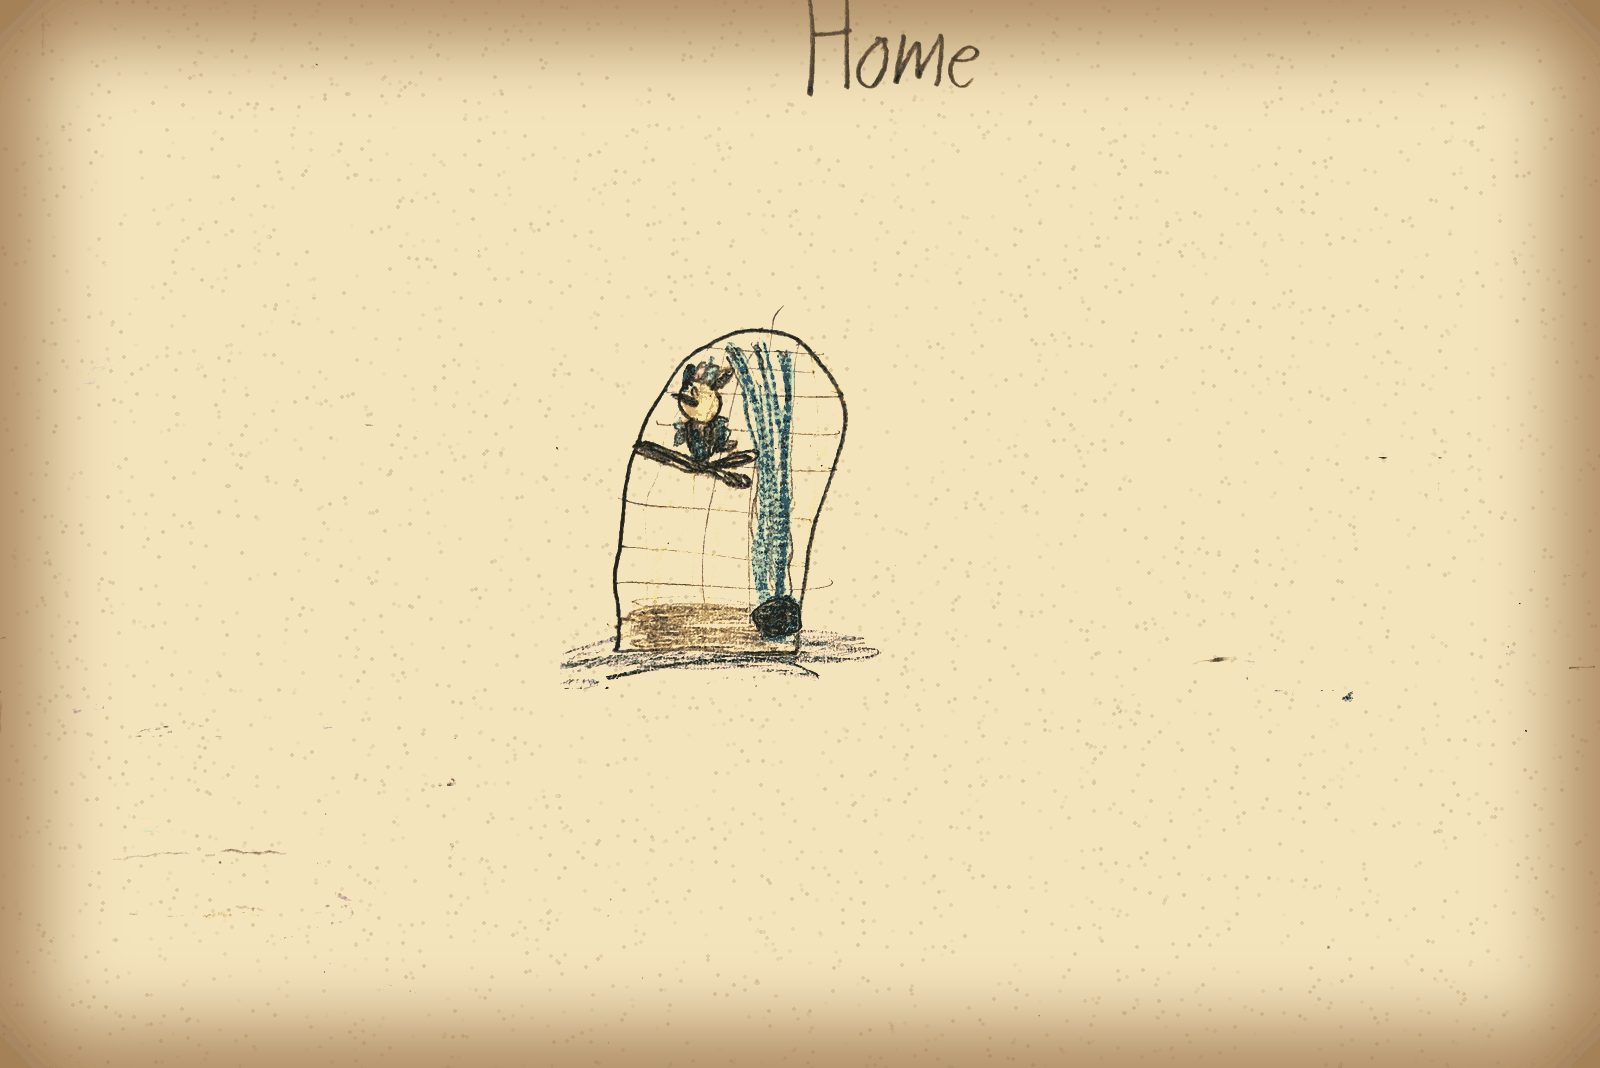
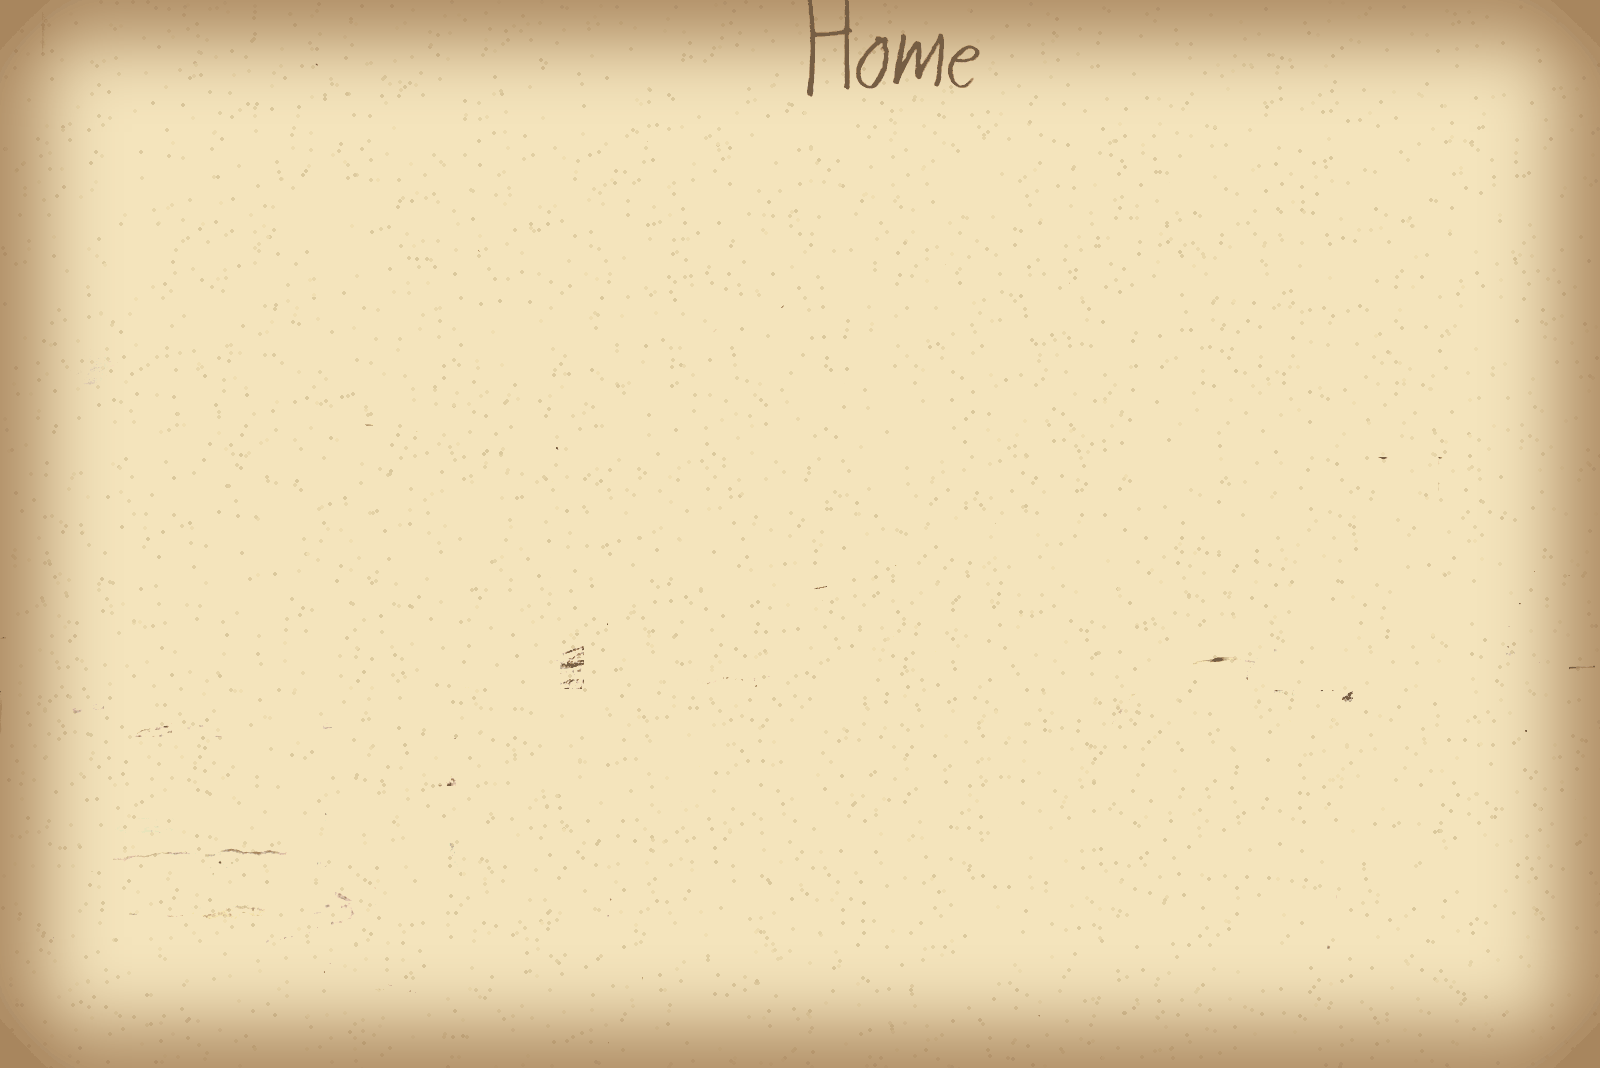
Movable bird cage, Switch Game button, named brooms priced in gems
Claude-Session: https://claude.ai/code/session_01BBNJnnKDsoYXa5MRnbbGYn

Changed region(s): [[0.3438, 0.309, 0.5625, 0.6489], [0.5312, 0.0618, 0.5625, 0.0927]]

diff --git a/data/items.js b/data/items.js
@@ -10,23 +10,23 @@
 //   inPicture   true when the item is already drawn in its shop's picture: only
 //               its price tag shows there, at shelfX/shelfY (percent)
 GAME_DATA.items = [
-  {"id": "broom_wave", "name": "Wave", "category": "Broomstick", "price": 30, "emoji": "🧹", "description": "The Wave broomstick."},
-  {"id": "broom_no1", "name": "Broom No. 1", "category": "Broomstick", "price": 30, "emoji": "🧹", "description": "A broomstick drawn by the girls."},
-  {"id": "broom_no2", "name": "Broom No. 2", "category": "Broomstick", "price": 30, "emoji": "🧹", "description": "A broomstick drawn by the girls."},
-  {"id": "broom_stinger", "name": "Stinger", "category": "Broomstick", "price": 30, "emoji": "🧹", "description": "The Stinger broomstick."},
-  {"id": "broom_firefly", "name": "Firefly", "category": "Broomstick", "price": 30, "emoji": "🧹", "description": "The Firefly broomstick."},
-  {"id": "broom_bolt", "name": "Bolt", "category": "Broomstick", "price": 30, "emoji": "🧹", "description": "The Bolt broomstick."},
-  {"id": "broom_rocketer", "name": "Rocketer", "category": "Broomstick", "price": 30, "emoji": "🧹", "description": "The Rocketer broomstick."},
-  {"id": "broom_no3", "name": "Broom No. 3", "category": "Broomstick", "price": 30, "emoji": "🧹", "description": "A broomstick drawn by the girls."},
-  {"id": "broom_no4", "name": "Broom No. 4", "category": "Broomstick", "price": 30, "emoji": "🧹", "description": "A broomstick drawn by the girls."},
-  {"id": "broom_no5", "name": "Broom No. 5", "category": "Broomstick", "price": 30, "emoji": "🧹", "description": "A broomstick drawn by the girls."},
-  {"id": "broom_no6", "name": "Broom No. 6", "category": "Broomstick", "price": 30, "emoji": "🧹", "description": "A broomstick drawn by the girls."},
-  {"id": "broom_no7", "name": "Broom No. 7", "category": "Broomstick", "price": 30, "emoji": "🧹", "description": "A broomstick drawn by the girls."},
-  {"id": "broom_no8", "name": "Broom No. 8", "category": "Broomstick", "price": 30, "emoji": "🧹", "description": "A broomstick drawn by the girls."},
-  {"id": "broom_snowflake", "name": "Snowflake", "category": "Broomstick", "price": 30, "emoji": "🧹", "description": "A frosty light-blue broom."},
-  {"id": "broom_no9", "name": "Broom No. 9", "category": "Broomstick", "price": 30, "emoji": "🧹", "description": "A broomstick drawn by the girls."},
-  {"id": "broom_no10", "name": "Broom No. 10", "category": "Broomstick", "price": 30, "emoji": "🧹", "description": "A broomstick drawn by the girls."},
-  {"id": "broom_no11", "name": "Broom No. 11", "category": "Broomstick", "price": 30, "emoji": "🧹", "description": "A broomstick drawn by the girls."},
+  {"id": "broom_wave", "name": "Wave", "category": "Broomstick", "gems": 5, "emoji": "🧹", "description": "The Wave broomstick."},
+  {"id": "broom_no1", "name": "Iridescent", "category": "Broomstick", "gems": 5, "emoji": "🧹", "description": "The Iridescent broomstick."},
+  {"id": "broom_no2", "name": "Sunset", "category": "Broomstick", "gems": 5, "emoji": "🧹", "description": "The Sunset broomstick."},
+  {"id": "broom_stinger", "name": "Stinger", "category": "Broomstick", "gems": 5, "emoji": "🧹", "description": "The Stinger broomstick."},
+  {"id": "broom_firefly", "name": "Firefly", "category": "Broomstick", "gems": 5, "emoji": "🧹", "description": "The Firefly broomstick."},
+  {"id": "broom_bolt", "name": "Bolt", "category": "Broomstick", "gems": 5, "emoji": "🧹", "description": "The Bolt broomstick."},
+  {"id": "broom_rocketer", "name": "Rocketer", "category": "Broomstick", "gems": 5, "emoji": "🧹", "description": "The Rocketer broomstick."},
+  {"id": "broom_no3", "name": "Tangerine", "category": "Broomstick", "gems": 5, "emoji": "🧹", "description": "The Tangerine broomstick."},
+  {"id": "broom_no4", "name": "Icy", "category": "Broomstick", "gems": 5, "emoji": "🧹", "description": "The Icy broomstick."},
+  {"id": "broom_no5", "name": "Bubble", "category": "Broomstick", "gems": 5, "emoji": "🧹", "description": "The Bubble broomstick."},
+  {"id": "broom_no6", "name": "Emerald", "category": "Broomstick", "gems": 5, "emoji": "🧹", "description": "The Emerald broomstick."},
+  {"id": "broom_no7", "name": "Nature", "category": "Broomstick", "gems": 5, "emoji": "🧹", "description": "The Nature broomstick."},
+  {"id": "broom_no8", "name": "Moon", "category": "Broomstick", "gems": 5, "emoji": "🧹", "description": "The Moon broomstick."},
+  {"id": "broom_snowflake", "name": "Snowflake", "category": "Broomstick", "gems": 5, "emoji": "🧹", "description": "A frosty light-blue broom."},
+  {"id": "broom_no9", "name": "Comet", "category": "Broomstick", "gems": 5, "emoji": "🧹", "description": "The Comet broomstick."},
+  {"id": "broom_no10", "name": "Saturn", "category": "Broomstick", "gems": 5, "emoji": "🧹", "description": "The Saturn broomstick."},
+  {"id": "broom_no11", "name": "Play-doh", "category": "Broomstick", "gems": 5, "emoji": "🧹", "description": "The Play-doh broomstick."},
   {"id": "pet_turtle", "name": "Healing Turtle", "category": "Pet", "gems": 3, "emoji": "🐢", "description": "A gentle turtle whose shell glows when someone needs healing."},
   {"id": "pet_owl", "name": "Snowy Owl", "category": "Pet", "gems": 17, "emoji": "🦉", "description": "A fluffy white owl with big round eyes."},
   {"id": "pet_cat", "name": "Midnight Cat", "category": "Pet", "gems": 15, "emoji": "🐈", "description": "A soft brown cat who loves the night."},

diff --git a/index.html b/index.html
@@ -6,7 +6,7 @@
   <title>Witches and Wizards</title>
   <link rel="preconnect" href="https://fonts.googleapis.com">
   <link href="https://fonts.googleapis.com/css2?family=Grandstander:wght@400;700&display=swap" rel="stylesheet">
-  <link rel="stylesheet" href="css/style.css?v=12">
+  <link rel="stylesheet" href="css/style.css?v=14">
 </head>
 <body>
 
@@ -72,10 +72,11 @@
     <span class="status-item"><b id="status-level"></b></span>
     <span class="status-item" title="Adventure Points">Adventure <span id="status-points" class="stars"></span></span>
     <span class="status-item" title="Crystals">💎 <b id="status-crystals"></b></span>
-    <span class="status-item" title="Gems"><img class="gem-icon" src="art/processed/extra_gem.png?v=12" alt="Gems"> <b id="status-gems"></b></span>
+    <span class="status-item" title="Gems"><img class="gem-icon" src="art/processed/extra_gem.png?v=14" alt="Gems"> <b id="status-gems"></b></span>
     <button id="btn-backpack" class="small-button">🎒 Backpack</button>
     <button id="btn-cooler" class="small-button">🧊 Cooler</button>
     <button id="btn-bucket" class="small-button">🪣 Bucket</button>
+    <button id="btn-switch-game" class="small-button" title="Save this game and go back to the title screen">💾 Switch Game</button>
   </header>
 
   <!-- Pop-up: one item from a shelf (take it free, or buy it) -->
@@ -188,25 +189,25 @@
   <p id="placement-info" class="placement-info" hidden></p>
 
   <!-- Game content. Every data file adds to GAME_DATA. -->
-  <script>var GAME_DATA = {}; var GAME_VERSION = "12"; // tools/bump_version.py changes this and every ?v= so browsers load fresh files</script>
-  <script src="data/characters.js?v=12"></script>
-  <script src="data/places.js?v=12"></script>
-  <script src="data/paths.js?v=12"></script>
-  <script src="data/items.js?v=12"></script>
-  <script src="data/fish.js?v=12"></script>
-  <script src="data/digging.js?v=12"></script>
-  <script src="data/furniture.js?v=12"></script>
-  <script src="data/furniture_art.js?v=12"></script>
-  <script src="data/drawn.js?v=12"></script>
+  <script>var GAME_DATA = {}; var GAME_VERSION = "14"; // tools/bump_version.py changes this and every ?v= so browsers load fresh files</script>
+  <script src="data/characters.js?v=14"></script>
+  <script src="data/places.js?v=14"></script>
+  <script src="data/paths.js?v=14"></script>
+  <script src="data/items.js?v=14"></script>
+  <script src="data/fish.js?v=14"></script>
+  <script src="data/digging.js?v=14"></script>
+  <script src="data/furniture.js?v=14"></script>
+  <script src="data/furniture_art.js?v=14"></script>
+  <script src="data/drawn.js?v=14"></script>
 
   <!-- Game code -->
-  <script src="js/save.js?v=12"></script>
-  <script src="js/world.js?v=12"></script>
-  <script src="js/items.js?v=12"></script>
-  <script src="js/fishing.js?v=12"></script>
-  <script src="js/digging.js?v=12"></script>
-  <script src="js/storage.js?v=12"></script>
-  <script src="js/furniture.js?v=12"></script>
-  <script src="js/game.js?v=12"></script>
+  <script src="js/save.js?v=14"></script>
+  <script src="js/world.js?v=14"></script>
+  <script src="js/items.js?v=14"></script>
+  <script src="js/fishing.js?v=14"></script>
+  <script src="js/digging.js?v=14"></script>
+  <script src="js/storage.js?v=14"></script>
+  <script src="js/furniture.js?v=14"></script>
+  <script src="js/game.js?v=14"></script>
 </body>
 </html>

diff --git a/data/furniture_art.js b/data/furniture_art.js
@@ -1,3 +1,3 @@
 // Made by tools/process_art.py: where each cut-out piece of furniture sits
 // in its room's drawing, as [left, top, right, bottom] percentages.
-GAME_DATA.furnitureBoxes = {"cabin/table": [7.7, 66.5, 22.0, 76.1], "cabin/stool": [22.4, 70.7, 28.8, 77.6], "cabin/sofa": [38.0, 57.2, 65.1, 75.0], "cabin/bookshelf": [84.0, 57.6, 100.0, 74.0], "home/pet_cage": [3.1, 39.0, 35.0, 70.0], "home/chest": [78.0, 45.9, 100.0, 64.6], "home/armchair": [64.5, 62.3, 83.4, 94.0], "home/cooler": [2.6, 75.3, 19.8, 90.0], "home/spellbook_table": [19.6, 73.6, 40.8, 92.8], "rec_room/snack_table": [8.0, 13.0, 36.0, 40.0], "rec_room/armchair": [67.7, 26.4, 91.0, 51.0], "rec_room/bookshelf": [80.1, 51.0, 97.0, 85.4], "rec_room/egg_chair": [58.2, 72.5, 69.0, 86.4]};
+GAME_DATA.furnitureBoxes = {"cabin/table": [7.7, 66.5, 22.0, 76.1], "cabin/stool": [22.4, 70.7, 28.8, 77.6], "cabin/sofa": [38.0, 57.2, 65.1, 75.0], "cabin/bookshelf": [84.0, 57.6, 100.0, 74.0], "home/bird_cage": [36.5, 29.2, 54.9, 65.0], "home/pet_cage": [3.1, 39.0, 35.0, 70.0], "home/chest": [78.0, 45.9, 100.0, 64.6], "home/armchair": [64.5, 62.3, 83.4, 94.0], "home/cooler": [2.6, 75.3, 19.8, 90.0], "home/spellbook_table": [19.6, 73.6, 40.8, 92.8], "rec_room/snack_table": [8.0, 13.0, 36.0, 40.0], "rec_room/armchair": [67.7, 26.4, 91.0, 51.0], "rec_room/bookshelf": [80.1, 51.0, 97.0, 85.4], "rec_room/egg_chair": [58.2, 72.5, 69.0, 86.4]};

diff --git a/catalog.html b/catalog.html
@@ -176,16 +176,16 @@
     </div>
   </main>
 
-  <script>var GAME_DATA = {}; var GAME_VERSION = "12"; // tools/bump_version.py changes this and every ?v= so browsers load fresh files</script>
-  <script src="data/characters.js?v=12"></script>
-  <script src="data/places.js?v=12"></script>
-  <script src="data/items.js?v=12"></script>
-  <script src="data/ideas.js?v=12"></script>
-  <script src="data/fish.js?v=12"></script>
-  <script src="data/digging.js?v=12"></script>
-  <script src="data/gameplay.js?v=12"></script>
-  <script src="data/extras.js?v=12"></script>
-  <script src="data/drawn.js?v=12"></script>
+  <script>var GAME_DATA = {}; var GAME_VERSION = "14"; // tools/bump_version.py changes this and every ?v= so browsers load fresh files</script>
+  <script src="data/characters.js?v=14"></script>
+  <script src="data/places.js?v=14"></script>
+  <script src="data/items.js?v=14"></script>
+  <script src="data/ideas.js?v=14"></script>
+  <script src="data/fish.js?v=14"></script>
+  <script src="data/digging.js?v=14"></script>
+  <script src="data/gameplay.js?v=14"></script>
+  <script src="data/extras.js?v=14"></script>
+  <script src="data/drawn.js?v=14"></script>
   <script>
     // Builds the catalog straight from the game's data files, so it never goes out of date.
     const drawn = GAME_DATA.drawn || [];

diff --git a/js/game.js b/js/game.js
@@ -173,6 +173,16 @@ document.getElementById("btn-start").addEventListener("click", function () {
 
 document.getElementById("btn-select-back").addEventListener("click", showTitle);
 
+// Save this game and go back to the title screen, to pick another one.
+document.getElementById("btn-switch-game").addEventListener("click", function () {
+  if (walking) return;
+  stopFishing();   // js/fishing.js
+  stopDigging();   // js/digging.js
+  document.querySelectorAll(".overlay").forEach(function (panel) { panel.hidden = true; });
+  writeSave(player);
+  showTitle();
+});
+
 // Reload the page, so a game that was just updated shows its newest version.
 document.getElementById("btn-refresh").addEventListener("click", function () {
   location.reload();

diff --git a/data/furniture.js b/data/furniture.js
@@ -22,6 +22,7 @@ GAME_DATA.furniture = [
   { "place": "cabin", "id": "sofa",     "name": "Blue Sofa",   "box": [37, 55, 66, 75] },
   { "place": "cabin", "id": "bookshelf", "name": "Bookshelf",   "box": [84, 57, 100, 76] },
 
+  { "place": "home", "id": "bird_cage", "name": "Bird Cage", "box": [36.5, 23.6, 56.5, 65.0], "min_part": 0.002 },
   { "place": "home", "id": "pet_cage", "name": "Pet Cage", "box": [1.0, 37.1, 35.0, 70.0], "min_part": 0.002 },
   { "place": "home", "id": "chest", "name": "Treasure Chest", "holds": "homeChest", "box": [78.0, 43.8, 100.0, 64.6], "min_part": 0.002 },
   { "place": "home", "id": "armchair", "name": "Pink Armchair", "box": [64.0, 60.5, 84.5, 95.0], "min_part": 0.002 },

diff --git a/CLAUDE.md b/CLAUDE.md
@@ -8,7 +8,7 @@ A family project: Scott drives, his two 9-year-old daughters make the art and de
 - Must run by double-clicking `index.html` (file://) and deploy to Netlify as static files.
 - All game content (characters, locations, paths, items, levels) lives in `/data`. Never hard-code content in JS.
 - Data files are `.js` files holding JSON-style content with one wrapper line, e.g. `GAME_DATA.characters = [ ... ];`, loaded by `<script>` tags. This is so double-clicking index.html works (browsers block reading `.json` from file://). Scott chose this on 2026-10-07.
-- Progress is saved in `localStorage` as a list of up to 10 saved games (newest first, `js/save.js`); the title screen has a dropdown to continue one. "New Game" adds a new game and, when the list is full, removes the oldest after asking (Scott, 2026-10-10). Saves belong to one browser and one web address.
+- Progress is saved in `localStorage` as a list of up to 10 saved games (newest first, `js/save.js`); the title screen has a dropdown to continue one, and the 💾 Switch Game button in the top bar saves and goes back to the title screen. "New Game" adds a new game and, when the list is full, removes the oldest after asking (Scott, 2026-10-10). Saves belong to one browser and one web address.
 - The player chooses Witch or Wizard (`player.kind`) at the start; progress is Levels starting at 1, shown as "Witch Level 1" (Scott, 2026-10-10; was Grades).
 - Map positions are percentages (x, y) of the map image, so they survive resizing.
 - Style: whimsical and magical, parchment backgrounds, friendly storybook font, big kid-friendly buttons.
@@ -26,8 +26,8 @@ A family project: Scott drives, his two 9-year-old daughters make the art and de
 - Digging (Pebble Beach): places with `type: "digging"` and `finds` ("beach" or "crystals"). `data/digging.js` has the beach finds (Bottle Cap 0, Conch Shell 2, Sand Dollar 3 gems, from the girls' drawing) and the dig time; the Crystal Dig Spot gives 1 to 5 Crystals (Claude's placeholder numbers). Finds go in the bucket and are not fish. Code in `js/digging.js`.
 - Carrying and keeping (Scott, 2026-10-10): catches go in the cooler you carry (`player.cooler`, 🧊 button), dig finds in the bucket (`player.bucket`, 🪣 button). At Home, clicking the cooler or the treasure chest (furniture with `holds`) opens `player.homeCooler` / `player.homeChest` with a button to empty the carried one into it. Code in `js/storage.js`.
 - The store holds only the girls' own items (Scott, 2026-10-10). Claude's suggestions go in `data/ideas.js`, which only the catalog loads ("Ideas" section); never add made-up items to `data/items.js`.
-- Movable furniture: `data/furniture.js` lists pieces per room with a rough box; the art script cuts each out (`furniture_<place>_<id>.png`), makes the empty room (`place_<id>_room.png`) and writes the exact boxes to `data/furniture_art.js` (generated). `js/furniture.js` does the 🪑 Rearrange button, dragging and no-overlap; positions save in `player.furniture`. Pieces are cut in list order and a piece never takes bits of one listed before it; `min_part` on a piece keeps small loose bits like shadows. Rooms with furniture: Rec Room, Toadstool Cottage, Home (dorm room; the girls' labels are erased, Scott 2026-10-10).
-- Broomsticks: 17 from the girls' sheet (art/raw/sheets/broomsticks.jpeg), five to a gap on the broom shelf (`perRow`). Unnamed ones are "Broom No. N" until the girls name them; all cost 30 Crystals for now (no prices on the sheet). Snowflake replaced Snowball; old saves are moved over in js/save.js `renameItem`.
+- Movable furniture: `data/furniture.js` lists pieces per room with a rough box; the art script cuts each out (`furniture_<place>_<id>.png`), makes the empty room (`place_<id>_room.png`) and writes the exact boxes to `data/furniture_art.js` (generated). `js/furniture.js` does the 🪑 Rearrange button, dragging and no-overlap; positions save in `player.furniture`. Pieces are cut in list order and a piece never takes bits of one listed before it; `min_part` on a piece keeps small loose bits like shadows. Rooms with furniture: Rec Room, Toadstool Cottage, Home (dorm room; the girls' labels are erased, Scott 2026-10-10; the tall arched piece is the bird cage with a waterfall into a drinking bowl).
+- Broomsticks: 17 from the girls' sheet (art/raw/sheets/broomsticks.jpeg), five to a gap on the broom shelf (`perRow`). The 11 unnamed ones were named by Scott (Iridescent, Sunset, Tangerine, Icy, Bubble, Emerald, Nature, Moon, Comet, Saturn, Play-doh; ids stay `broom_no1`…`broom_no11`). Brooms cost Gems, not Crystals (Scott, 2026-10-10); 5 gems each is Claude's placeholder. Snowflake replaced Snowball; old saves are moved over in js/save.js `renameItem`.
 - Gameplay ideas (Scott, 2026-10-10): `data/gameplay.js` (catalog only) lists "good things to do" by kind (Bonding, Chores, Mining) and the "metrics" (the top-bar counters). Add ideas there first, mark `inGame` once built.
 - Drawings not used yet are listed in `data/extras.js` and shown in the catalog's "Saved for later" section.
 - `js/save.js` has `SAVE_VERSION`; bump it when the save's shape changes (old saves are then ignored).
